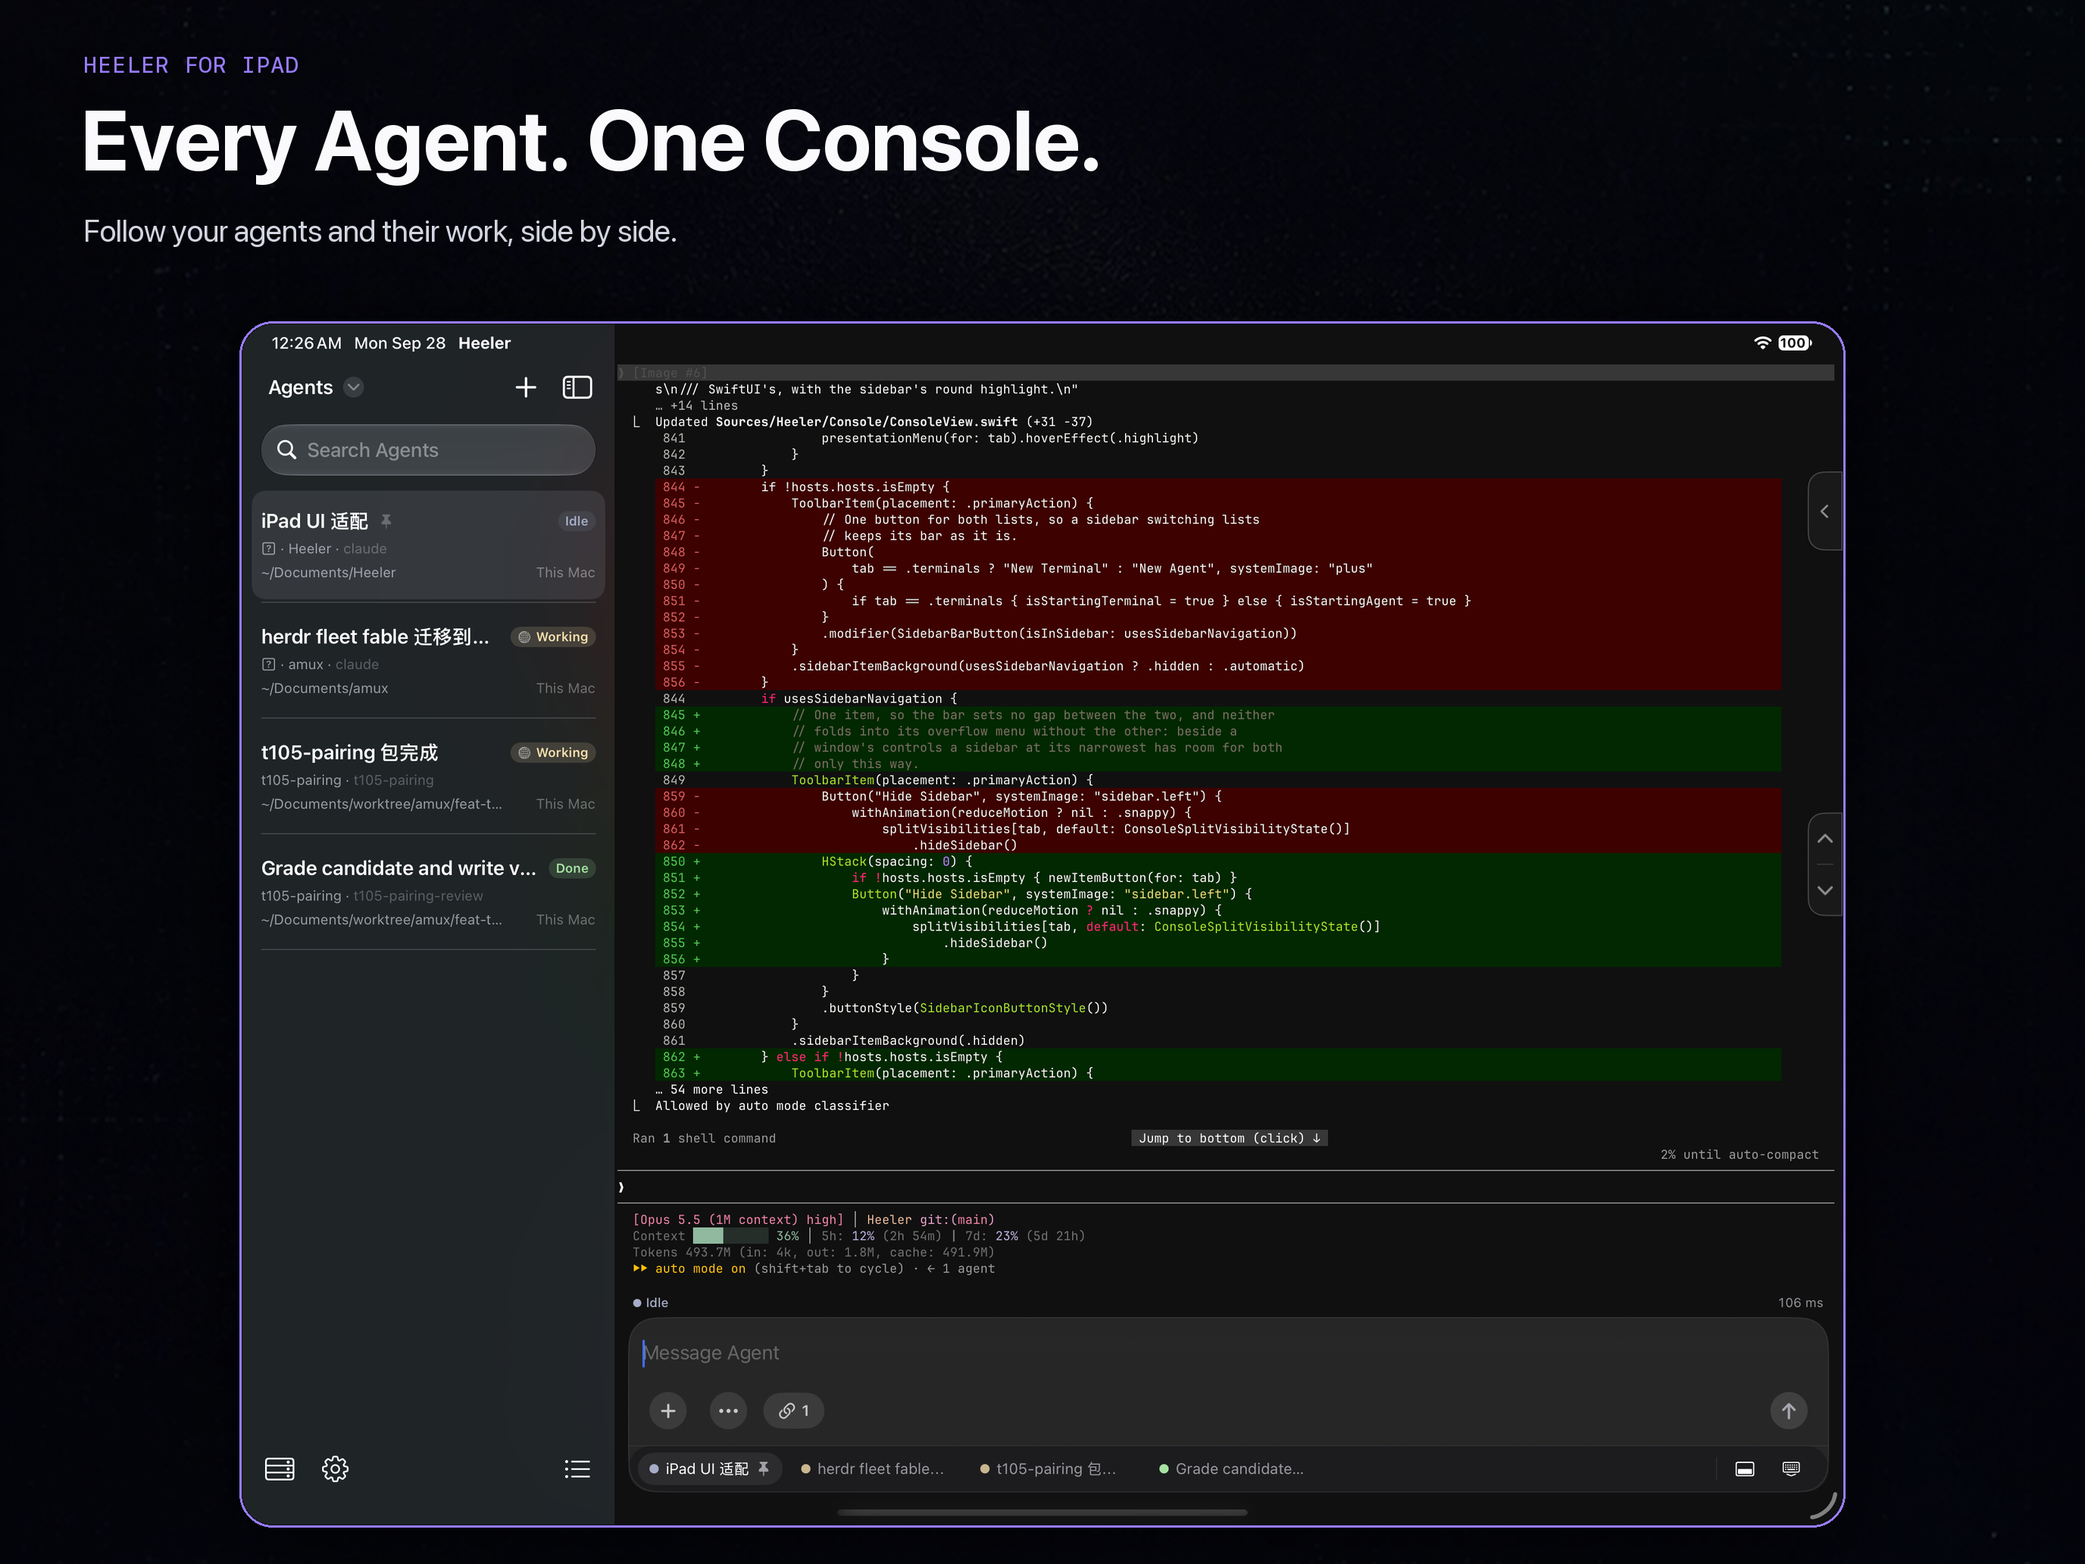
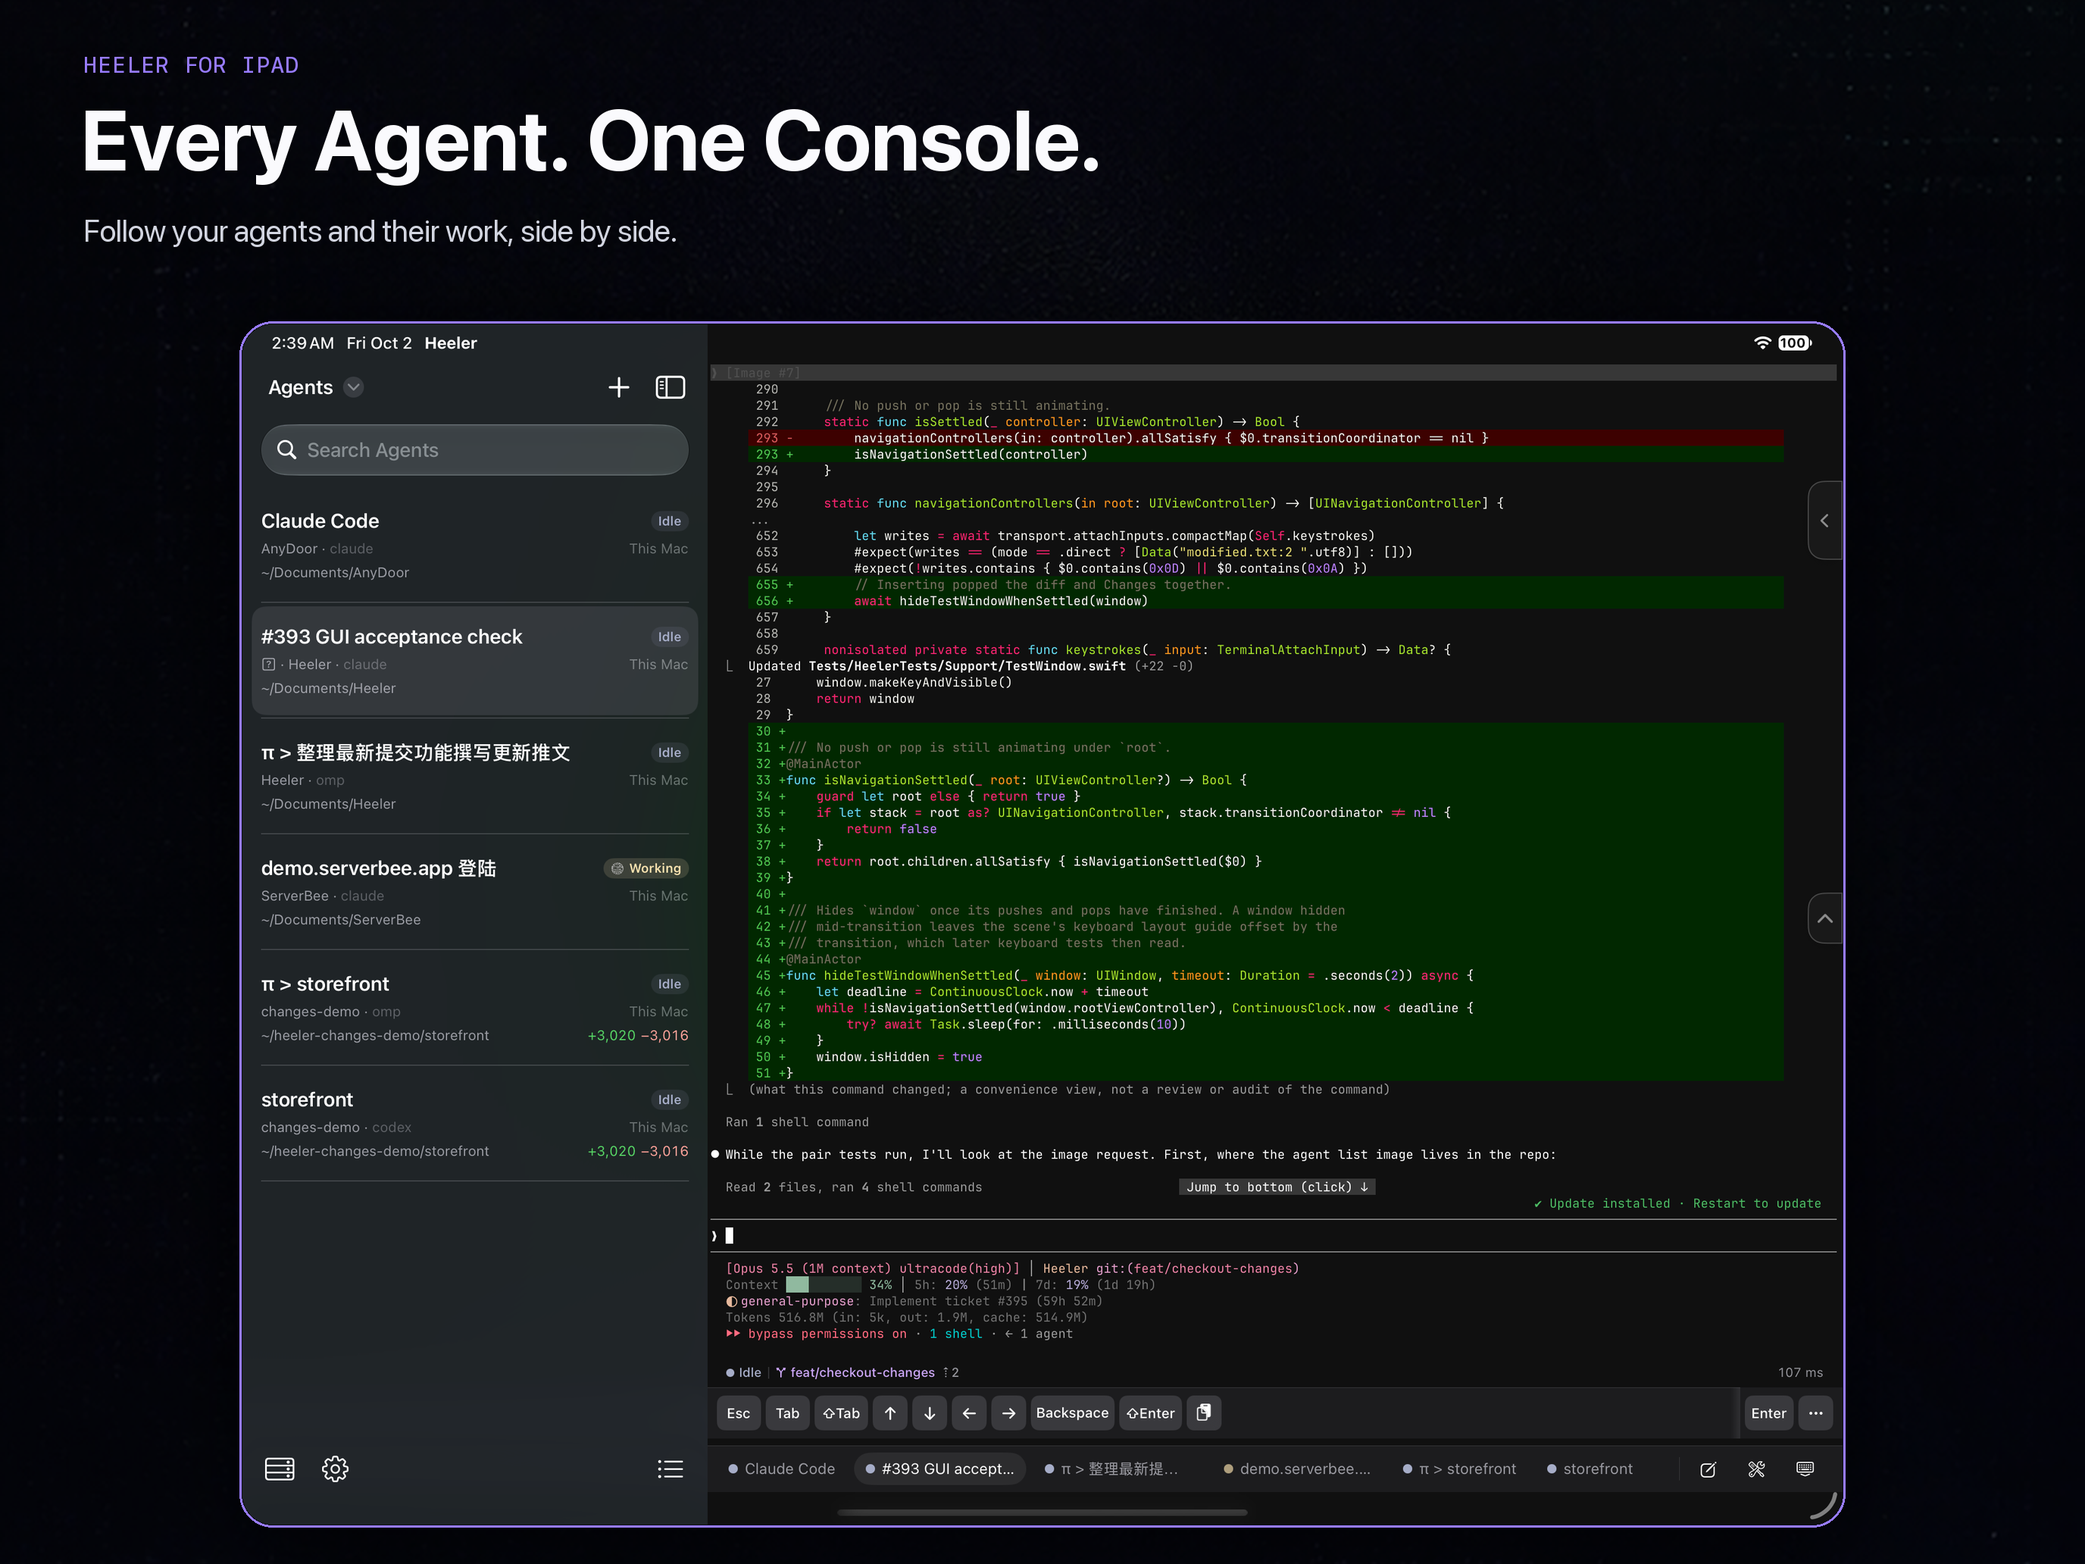
docs: add changes screenshots and refresh ipad captures
The landing hero now wraps its iPhone screens and centers a short last row, since eight screens no longer fill a three-column grid.

diff --git a/output/app-store/ipad-13/index.html b/output/app-store/ipad-13/index.html
@@ -1,5 +1,7 @@
-<!doctype html><html lang="en"><meta charset="utf-8"><meta name="viewport" content="width=device-width,initial-scale=1"><title>Heeler iPad App Store screenshots</title><style>body{margin:32px auto;padding:0 24px;max-width:1400px;background:#111114;color:#eee;font:16px/1.5 -apple-system,BlinkMacSystemFont,sans-serif}h1{font-size:28px}p,figcaption{color:#b8b8c0}a{color:#c4b2ff}figure{margin:40px 0}img{display:block;width:100%;height:auto;border-radius:10px}figcaption{margin-top:10px}</style><h1>Heeler for iPad</h1><p>Five landscape App Store mockups · 2752 × 2064 · opaque RGB PNG.<br>Real simulator captures with English marketing copy. The captured session titles remain in Chinese.</p><figure><a href="exports/01-fits-your-workspace.png"><img src="exports/01-fits-your-workspace.png" alt="Fits Your Workspace."></a><figcaption>Fits Your Workspace. · <a href="exports/01-fits-your-workspace.png" download>Download PNG</a></figcaption></figure>
+<!doctype html><html lang="en"><meta charset="utf-8"><meta name="viewport" content="width=device-width,initial-scale=1"><title>Heeler iPad App Store screenshots</title><style>body{margin:32px auto;padding:0 24px;max-width:1400px;background:#111114;color:#eee;font:16px/1.5 -apple-system,BlinkMacSystemFont,sans-serif}h1{font-size:28px}p,figcaption{color:#b8b8c0}a{color:#c4b2ff}figure{margin:40px 0}img{display:block;width:100%;height:auto;border-radius:10px}figcaption{margin-top:10px}</style><h1>Heeler for iPad</h1><p>Seven landscape App Store mockups · 2752 × 2064 · opaque RGB PNG.<br>Real simulator captures with English marketing copy. The captured session titles remain in Chinese.</p><figure><a href="exports/01-fits-your-workspace.png"><img src="exports/01-fits-your-workspace.png" alt="Fits Your Workspace."></a><figcaption>Fits Your Workspace. · <a href="exports/01-fits-your-workspace.png" download>Download PNG</a></figcaption></figure>
 <figure><a href="exports/02-every-agent-one-console.png"><img src="exports/02-every-agent-one-console.png" alt="Every Agent. One Console."></a><figcaption>Every Agent. One Console. · <a href="exports/02-every-agent-one-console.png" download>Download PNG</a></figcaption></figure>
 <figure><a href="exports/03-type-directly-stay-in-flow.png"><img src="exports/03-type-directly-stay-in-flow.png" alt="Type Directly. Stay in Flow."></a><figcaption>Type Directly. Stay in Flow. · <a href="exports/03-type-directly-stay-in-flow.png" download>Download PNG</a></figcaption></figure>
 <figure><a href="exports/04-skills-within-reach.png"><img src="exports/04-skills-within-reach.png" alt="Your Skills. Within Reach."></a><figcaption>Your Skills. Within Reach. · <a href="exports/04-skills-within-reach.png" download>Download PNG</a></figcaption></figure>
-<figure><a href="exports/05-a-shell-when-you-need-one.png"><img src="exports/05-a-shell-when-you-need-one.png" alt="A Shell When You Need One."></a><figcaption>A Shell When You Need One. · <a href="exports/05-a-shell-when-you-need-one.png" download>Download PNG</a></figcaption></figure></html>
+<figure><a href="exports/05-a-shell-when-you-need-one.png"><img src="exports/05-a-shell-when-you-need-one.png" alt="A Shell When You Need One."></a><figcaption>A Shell When You Need One. · <a href="exports/05-a-shell-when-you-need-one.png" download>Download PNG</a></figcaption></figure>
+<figure><a href="exports/06-see-what-changed.png"><img src="exports/06-see-what-changed.png" alt="See What Changed."></a><figcaption>See What Changed. · <a href="exports/06-see-what-changed.png" download>Download PNG</a></figcaption></figure>
+<figure><a href="exports/07-every-change-line-by-line.png"><img src="exports/07-every-change-line-by-line.png" alt="Every Change. Line by Line."></a><figcaption>Every Change. Line by Line. · <a href="exports/07-every-change-line-by-line.png" download>Download PNG</a></figcaption></figure></html>

diff --git a/landing/src/data/ipad-screens.ts b/landing/src/data/ipad-screens.ts
@@ -1,4 +1,6 @@
+import changesShot from '../assets/screens/changes-ipad.png';
 import consoleShot from '../assets/screens/console-ipad.png';
+import diffShot from '../assets/screens/diff-ipad.png';
 import terminalKeyboardShot from '../assets/screens/terminal-keyboard-ipad.png';
 import skillsShot from '../assets/screens/skills-ipad.png';
 import terminalShot from '../assets/screens/terminal-ipad.png';
@@ -34,5 +36,17 @@ export const ipadScreens = [
     alt: 'Terminals sidebar and a Shell Terminal in Keys mode on iPad',
     title: 'A shell when you need one',
     caption: 'Open a plain terminal in any Workspace, with Text and Keys modes.',
+  },
+  {
+    image: changesShot,
+    alt: "Changes listing a Checkout's staged, unstaged, and untracked files beside the Agent sidebar on iPad",
+    title: 'See what changed',
+    caption: "Everything uncommitted in the Agent's Checkout, beside your Agents.",
+  },
+  {
+    image: diffShot,
+    alt: 'A Swift file compared side by side with its edited words highlighted on iPad',
+    title: 'Every change, line by line',
+    caption: 'Read any changed file side by side or unified.',
   },
 ];

diff --git a/output/app-store/ipad-13/compose_mockups.py b/output/app-store/ipad-13/compose_mockups.py
@@ -60,6 +60,18 @@ MOCKUPS = (
         "Open a plain terminal in any workspace, with Text and Keys modes.",
         (88, 214, 198),
     ),
+    Mockup(
+        "06-see-what-changed", "06-changes.png",
+        "See What Changed.",
+        "Every uncommitted file in the Agent's Checkout, beside your agents.",
+        (110, 207, 132),
+    ),
+    Mockup(
+        "07-every-change-line-by-line", "07-diff.png",
+        "Every Change. Line by Line.",
+        "Read any file side by side or unified, with word changes marked.",
+        (255, 159, 90),
+    ),
 )
 
 
@@ -150,12 +162,13 @@ def main() -> None:
         'h1{font-size:28px}p,figcaption{color:#b8b8c0}a{color:#c4b2ff}'
         'figure{margin:40px 0}img{display:block;width:100%;height:auto;border-radius:10px}'
         'figcaption{margin-top:10px}</style><h1>Heeler for iPad</h1>'
-        '<p>Five landscape App Store mockups · 2752 × 2064 · opaque RGB PNG.<br>'
+        '<p>Seven landscape App Store mockups · 2752 × 2064 · opaque RGB PNG.<br>'
         'Real simulator captures with English marketing copy. The captured '
         'session titles remain in Chinese.</p>' + cards + '</html>'
     )
-    # A review contact sheet is separate from the five upload-ready exports.
-    sheet = Image.new("RGB", (1376, 1640), (20, 20, 24))
+    # A review contact sheet is separate from the upload-ready exports.
+    rows = (len(records) + 1) // 2
+    sheet = Image.new("RGB", (1376, 14 + rows * 546), (20, 20, 24))
     for index, record in enumerate(records):
         preview = Image.open(ROOT / record["export"]).resize((660, 495), Image.Resampling.LANCZOS)
         px, py = 14 + (index % 2) * 688, 14 + (index // 2) * 546

diff --git a/output/app-store/0.1.11/compose_mockups.py b/output/app-store/0.1.11/compose_mockups.py
@@ -74,6 +74,20 @@ MOCKUPS = (
         subhead="See live Agent activity from the Lock Screen.",
         accent=(241, 204, 118),
     ),
+    Mockup(
+        output_name="07-see-what-changed.png",
+        source_name="changes-iphone.png",
+        headline="See What\nChanged.",
+        subhead="Every uncommitted file in the Agent's Checkout.",
+        accent=(110, 207, 132),
+    ),
+    Mockup(
+        output_name="08-every-change-line-by-line.png",
+        source_name="diff-iphone.png",
+        headline="Every Change.\nLine by Line.",
+        subhead="Open any file for its diff, word changes marked.",
+        accent=(255, 159, 90),
+    ),
 )
 
 

diff --git a/output/app-store/ipad-13/README.md b/output/app-store/ipad-13/README.md
@@ -1,6 +1,6 @@
 # Heeler iPad App Store mockups
 
-Five landscape exports for the 13-inch iPad screenshot slot. Each export is an
+Seven landscape exports for the 13-inch iPad screenshot slot. Each export is an
 opaque RGB PNG at 2752 × 2064 pixels. The numbered filenames define the proposed
 upload order, with the floating-window presentation first.
 
@@ -13,17 +13,20 @@ upload order, with the floating-window presentation first.
 | 3 | `exports/03-type-directly-stay-in-flow.png` | Direct Input with its shortcut row and the iOS keyboard |
 | 4 | `exports/04-skills-within-reach.png` | Skills in the Direct Input tools keyboard |
 | 5 | `exports/05-a-shell-when-you-need-one.png` | Terminals sidebar and a Shell Terminal in Keys mode |
+| 6 | `exports/06-see-what-changed.png` | Changes for an Agent's Checkout beside the Agent sidebar |
+| 7 | `exports/07-every-change-line-by-line.png` | A file's side-by-side diff with edited words marked |
 
-`contact-sheet.jpg` provides an overview; `index.html` links the five full-size
+`contact-sheet.jpg` provides an overview; `index.html` links the seven full-size
 exports. Neither the contact sheet nor the source captures belong in the upload
-set. The locally generated `../ipad-13-app-store.zip` contains only the five
+set. The locally generated `../ipad-13-app-store.zip` contains only the seven
 exports and is excluded from Git, together with the earlier HTML draft.
 
 ## Source preservation
 
 - The sources are real captures from the iPad Pro 13-inch (M5) (16GB) simulator
   on iOS 27.0, UDID `A993BBE0-BD87-4807-8541-34A23C15C6A9`, taken on 2026-09-28
-  against a live herdr on this Mac. They show the iPad sidebar console.
+  against a live herdr on this Mac. They show the iPad sidebar console. The
+  console, windowed, and Changes captures were retaken on 2026-10-02.
 - The same captures are copied to `docs/images/*-ipad.png` for the README and to
   `landing/src/assets/screens/*-ipad.png` for the landing page.
 - The session titles in the captures remain in Chinese, as captured.
@@ -41,7 +44,7 @@ localized variants have not been produced.
 
 ## Scope and verification
 
-All five rendered PNGs and the contact sheet were visually inspected. The
+All seven rendered PNGs and the contact sheet were visually inspected. The
 renderer checks source dimensions, equal scale on both axes, headline and
 subhead safe areas, and output dimensions/color mode. An independent `sips`
 check confirmed 2752 × 2064 and `hasAlpha: no` for every export. No App Store

diff --git a/output/app-store/0.1.11/README.md b/output/app-store/0.1.11/README.md
@@ -1,4 +1,4 @@
-# Heeler 0.1.7 App Store screenshot exports
+# Heeler 0.1.11 App Store screenshot exports
 
 These exports preserve the exact application UI from the committed iPhone
 captures and add deterministic marketing copy over a generated background.
@@ -23,6 +23,12 @@ captures and add deterministic marketing copy over a generated background.
 - iphone-6.9/06-your-agents-at-a-glance.png
   - Source: docs/images/live-activity-iphone.png
   - Copy: “Your Agents. At a Glance.”
+- iphone-6.9/07-see-what-changed.png
+  - Source: docs/images/changes-iphone.png
+  - Copy: “See What Changed.”
+- iphone-6.9/08-every-change-line-by-line.png
+  - Source: docs/images/diff-iphone.png
+  - Copy: “Every Change. Line by Line.”
 
 All files are opaque 1320×2868 PNGs for the iPhone 6.9-inch App Store slot.
 
@@ -38,5 +44,5 @@ are never redrawn by a generative model.
 Run from the repository root with Pillow installed:
 
 ```sh
-python3 output/app-store/0.1.7/compose_mockups.py
+python3 output/app-store/0.1.11/compose_mockups.py
 ```

diff --git a/README.md b/README.md
@@ -36,6 +36,10 @@ Heeler is an **agent console**: a native dashboard of every coding agent running
 | --- | --- | --- |
 | <img src="docs/images/terminal-iphone.png" width="240" alt="Terminals tab listing shell panes by Host and Workspace on iPhone" /> | <img src="docs/images/skills-iphone.png" width="240" alt="Composer Skills suggestions on iPhone" /> | <img src="docs/images/live-activity-iphone.png" width="240" alt="Lock-screen Live Activity tracking Agents on iPhone" /> |
 
+| Changes | File diff |
+| --- | --- |
+| <img src="docs/images/changes-iphone.png" width="240" alt="Changes listing a Checkout's staged and unstaged files on iPhone" /> | <img src="docs/images/diff-iphone.png" width="240" alt="A changed JSON file with its edited words highlighted on iPhone" /> |
+
 <a href="docs/ipad-screenshots.md"><img src="docs/images/windowed-ipad.png" width="760" alt="Heeler in a floating iPad window" /></a>
 
 [View iPad screenshots](docs/ipad-screenshots.md)

diff --git a/README-zh.md b/README-zh.md
@@ -36,6 +36,10 @@ Heeler 是一个 **agent 控制台**：把所有机器上正在运行的 coding 
 | --- | --- | --- |
 | <img src="docs/images/terminal-iphone.png" width="240" alt="iPhone 上使用 Keys 模式和完整 Terminal 键盘的 Shell 终端" /> | <img src="docs/images/skills-iphone.png" width="240" alt="iPhone 上 Composer 的 Skills 建议" /> | <img src="docs/images/live-activity-iphone.png" width="240" alt="iPhone 锁屏上实时跟踪 Agent 的实时活动" /> |
 
+| Changes | 文件 diff |
+| --- | --- |
+| <img src="docs/images/changes-iphone.png" width="240" alt="iPhone 上列出 Checkout 已暂存和未暂存文件的 Changes" /> | <img src="docs/images/diff-iphone.png" width="240" alt="iPhone 上高亮改动词的 JSON 文件 diff" /> |
+
 <a href="docs/ipad-screenshots.md"><img src="docs/images/windowed-ipad.png" width="760" alt="Heeler in a floating iPad window" /></a>
 
 [View iPad screenshots](docs/ipad-screenshots.md)

diff --git a/docs/ipad-screenshots.md b/docs/ipad-screenshots.md
@@ -1,6 +1,6 @@
 # Heeler on iPad
 
-Agent Console, Direct Input, Skills, Terminals, and windowed presentation on iPad.
+Agent Console, Direct Input, Skills, Terminals, Changes, and windowed presentation on iPad.
 
 [Back to README](../README.md)
 
@@ -27,6 +27,18 @@ Browse Agent Skills from the tools keyboard.
 Open a plain shell in any Workspace, with Text and Keys modes.
 
 ![Terminals sidebar and a Shell Terminal in Keys mode on iPad](images/terminal-ipad.png)
+
+## Changes
+
+See everything uncommitted in the Agent's Checkout, beside the Agent list.
+
+![Changes listing a Checkout's staged, unstaged, and untracked files beside the Agent sidebar on iPad](images/changes-ipad.png)
+
+## File diff
+
+Read any changed file side by side or unified, with edited words marked.
+
+![A Swift file compared side by side with its edited words highlighted on iPad](images/diff-ipad.png)
 
 ## Windowed presentation
 
